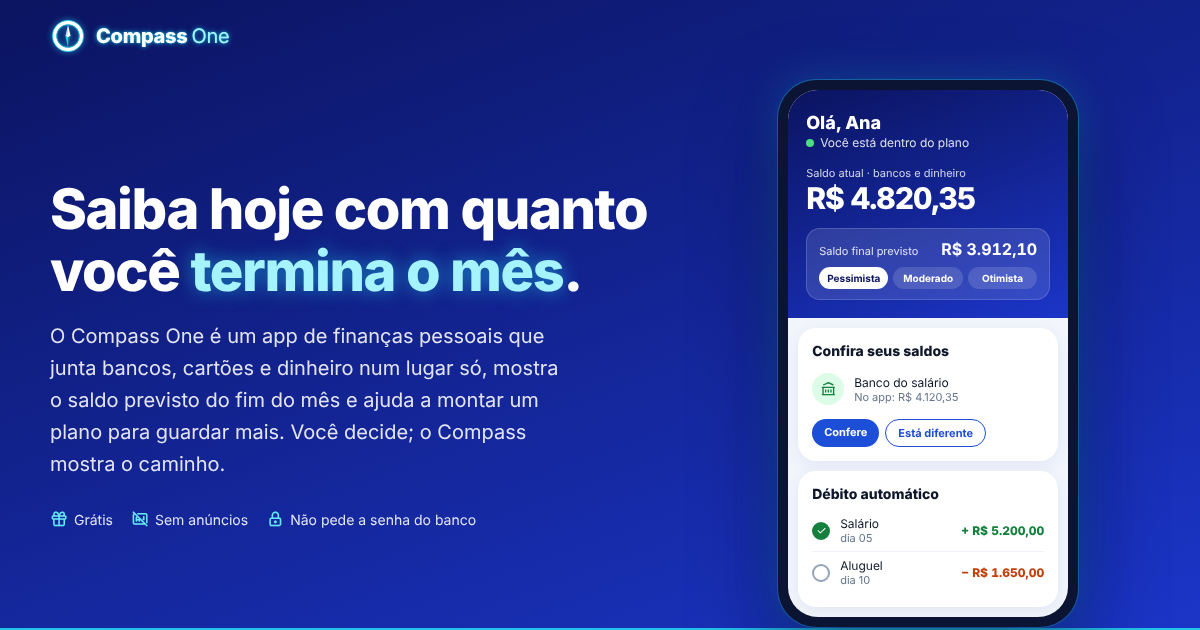
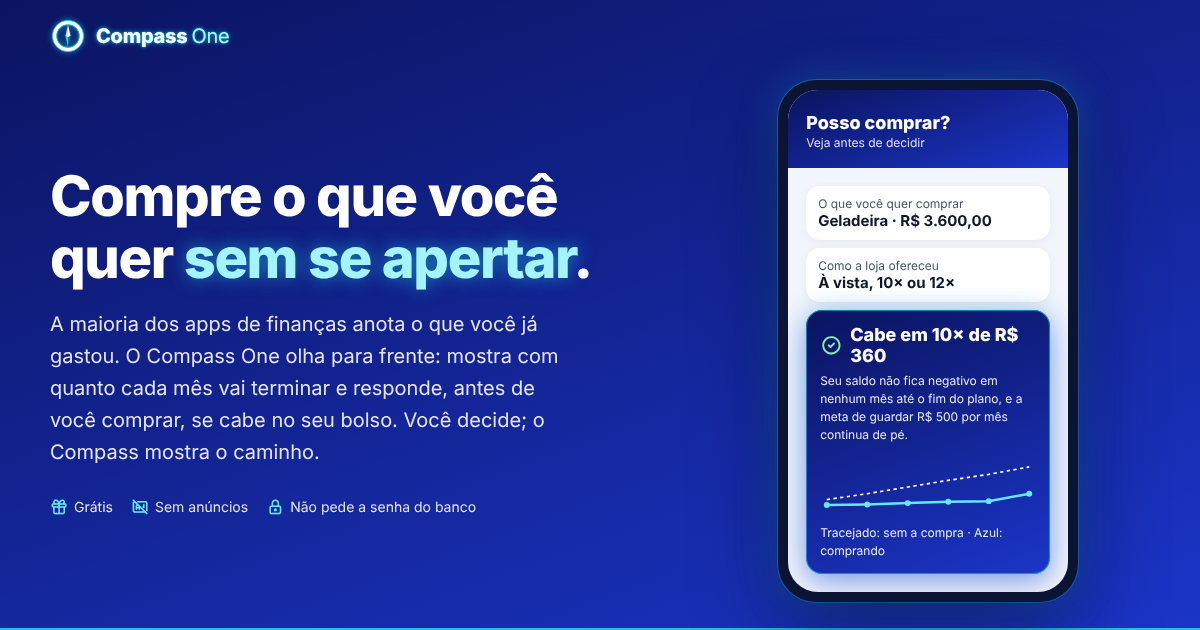
Apresentação: foco em planejamento, previsão e 'posso comprar?'
Topo com o simulador no celular, comparativo 'olham para trás × olha para
frente', funcionalidades na ordem Posso comprar?, Previsão, Planejamento,
Início, Radar, Lançar; título, descrição e prévia de link no mesmo tom.

Claude-Session: https://claude.ai/code/session_01Kn3FeVHsixTQpCq5MgH3Um

Changed region(s): [[0.6475, 0.1508, 0.925, 1.0], [0.0308, 0.2714, 0.555, 0.754], [0.0308, 0.7841, 0.4008, 0.8444]]

diff --git a/src/pages/LandingPage.tsx b/src/pages/LandingPage.tsx
@@ -71,6 +71,29 @@ const CSS = `
 .lp-bola { width: 18px; height: 18px; border-radius: 50%; border: 2px solid #94a3b8; flex-shrink: 0; }
 .lp-bola.ok { background: #15803d; border-color: #15803d; color: #fff; font-size: 11px; display: flex; align-items: center; justify-content: center; }
 
+/* simulador no celular do topo */
+.lp-sim { padding: 18px; }
+.lp-sim-campo { background: #fff; border-radius: 14px; padding: 10px 12px; font-size: 12px; color: #475569; margin-bottom: 8px; box-shadow: 0 2px 8px rgba(30,58,138,.06); }
+.lp-sim-campo b { display: block; font-size: 15px; color: #0f172a; }
+.lp-veredito { border-radius: 16px; padding: 14px; background: var(--cx-azul); color: #fff; box-shadow: var(--cx-brilho); }
+.lp-veredito-t { display: flex; align-items: center; gap: 8px; font-size: 18px; font-weight: 800; }
+.lp-veredito-t i { color: #86efac; font-size: 22px; }
+.lp-veredito p { margin: 6px 0 0; font-size: 12px; line-height: 1.5; color: rgba(255,255,255,.9); }
+.lp-linha-saldo { margin-top: 10px; }
+
+/* comparativo */
+.lp-comp { display: grid; grid-template-columns: 1fr; gap: 16px; }
+.lp-comp-col { border-radius: 22px; padding: 26px; }
+.lp-comp-col h3 { margin: 0 0 16px; font-size: 20px; }
+.lp-comp-col ul { list-style: none; padding: 0; margin: 0; display: grid; gap: 14px; }
+.lp-comp-col li { display: flex; gap: 10px; font-size: 15px; line-height: 1.5; }
+.lp-comp-col li i { font-size: 20px; flex-shrink: 0; }
+.lp-comp-outros { background: #f1f5f9; color: #334155; }
+.lp-comp-outros i { color: #64748b; }
+.lp-comp-nos { background: var(--cx-azul); color: #fff; box-shadow: var(--cx-brilho); }
+.lp-comp-nos i { color: #86efac; }
+.lp-comp-rot { font-size: 12px; font-weight: 800; letter-spacing: .6px; text-transform: uppercase; margin-bottom: 6px; opacity: .8; }
+
 /* como começa */
 .lp-passos { display: grid; grid-template-columns: 1fr; gap: 16px; counter-reset: passo; padding: 0; margin: 0; list-style: none; }
 .lp-passo { border: 1.5px solid #dbe4f3; border-radius: 18px; padding: 22px; background: #fff; }
@@ -153,7 +176,7 @@ const CSS = `
 
 @media (min-width: 640px) {
   .lp-ctas { flex-direction: row; }
-  .lp-passos, .lp-extras { grid-template-columns: repeat(2, 1fr); }
+  .lp-passos, .lp-extras, .lp-comp { grid-template-columns: repeat(2, 1fr); }
   .lp-planos { grid-template-columns: repeat(2, 1fr); }
 }
 @media (min-width: 900px) {
@@ -209,6 +232,59 @@ function CelularInicio() {
             <span className="v" style={{ color: '#c2410c' }}>− R$ 1.650,00</span>
           </div>
         </div>
+      </div>
+    </div>
+  )
+}
+
+function CelularSimulador() {
+  // Saldo dos próximos meses, sem e com a compra (fictício): nunca fica negativo.
+  const sem = [3900, 4300, 4750, 5200, 5600, 6100]
+  const com = [3540, 3580, 3670, 3760, 3800, 4300]
+  const x = (i: number) => 8 + i * 48
+  const y = (v: number) => 70 - ((v - 3000) / 3400) * 60
+  const linha = (vs: number[]) => vs.map((v, i) => `${i ? 'L' : 'M'}${x(i)},${y(v).toFixed(1)}`).join(' ')
+  return (
+    <div className="lp-cel" role="img" aria-label="Exemplo do Posso comprar? no celular: uma geladeira de R$ 3.600 cabe em 10 vezes sem deixar o saldo negativo">
+      <div className="lp-tela">
+        <div className="lp-tela-topo">
+          <div className="lp-ola">Posso comprar?</div>
+          <div className="lp-status">Veja antes de decidir</div>
+        </div>
+        <div className="lp-sim">
+          <div className="lp-sim-campo">O que você quer comprar<b>Geladeira · R$ 3.600,00</b></div>
+          <div className="lp-sim-campo">Como a loja ofereceu<b>À vista, 10× ou 12×</b></div>
+          <div className="lp-veredito">
+            <div className="lp-veredito-t"><i className="ti ti-circle-check" />Cabe em 10× de R$ 360</div>
+            <p>Seu saldo não fica negativo em nenhum mês até o fim do plano, e a meta de guardar R$ 500 por mês continua de pé.</p>
+            <svg className="lp-linha-saldo" viewBox="0 0 256 76" width="100%" aria-hidden>
+              <path d={linha(sem)} fill="none" stroke="#fff" strokeWidth="2" strokeDasharray="4 4" />
+              <path d={linha(com)} fill="none" stroke="#67e8f9" strokeWidth="3" />
+              {com.map((v, i) => <circle key={i} cx={x(i)} cy={y(v)} r="3.5" fill="#67e8f9" />)}
+            </svg>
+            <p style={{ marginTop: 2 }}>Tracejado: sem a compra · Azul: comprando</p>
+          </div>
+        </div>
+      </div>
+    </div>
+  )
+}
+
+function QuadroPrevisao() {
+  const meses = ['out', 'nov', 'dez', 'jan', 'fev', 'mar']
+  const vals = [3912, 2650, -480, 1200, 2300, 3100]
+  return (
+    <div className="lp-quadro" role="img" aria-label="Exemplo da previsão: o saldo dos próximos meses, com dezembro ficando negativo e marcado em vermelho">
+      <div className="lp-quadro-t">Com quanto cada mês vai terminar</div>
+      <div className="lp-colunas" style={{ alignItems: 'flex-end' }}>
+        {vals.map((v, i) => (
+          <div key={i} style={{ height: `${Math.max(8, Math.abs(v) / 40)}%`, background: v < 0 ? '#fca5a5' : i === 0 ? '#67e8f9' : 'rgba(255,255,255,.85)' }} />
+        ))}
+      </div>
+      <div className="lp-meses">{meses.map(m => <span key={m}>{m}</span>)}</div>
+      <div className="lp-caixa" style={{ marginTop: 14 }}>
+        <div style={{ fontSize: 13, fontWeight: 700 }}>Dezembro termina em − R$ 480,00</div>
+        <div style={{ fontSize: 12, marginTop: 4, color: 'rgba(255,255,255,.88)' }}>Você vê hoje, com dois meses para mudar o caminho.</div>
       </div>
     </div>
   )
@@ -280,60 +356,69 @@ function QuadroSimulador() {
 
 const FUNCIONALIDADES = [
   {
-    tag: 'Início', icone: 'ti-home',
-    titulo: 'Tudo o que pede sua atenção, logo na primeira tela',
-    texto: 'Ao abrir o app você vê quanto tem hoje nos bancos e no dinheiro e com quanto deve terminar o mês. O resto vem em ordem: o que conferir e o que pagar.',
+    tag: 'Posso comprar?', icone: 'ti-shopping-cart',
+    titulo: 'Antes de comprar, saiba se cabe',
+    texto: 'Digite o valor e as opções que a loja ofereceu. O Compass coloca a compra dentro do seu plano, mês a mês, e mostra a forma mais barata entre as que não apertam o seu bolso.',
     itens: [
-      'Confira seus saldos: compare com o app do banco em um toque',
-      'Salário e débito automático se marcam sozinhos no dia, e você só confere',
-      'Contas da semana (PIX, boleto ou dinheiro) com o botão Pagar',
-      'Resumo do mês: previsto e realizado lado a lado, com a sua meta de economia',
+      'Compara à vista, parcelado e com juros, lado a lado',
+      'Mostra o juro embutido a partir da parcela, sem precisar saber a taxa',
+      'Diz se a sua meta de economia continua de pé com a compra',
+      'Aponta o melhor dia para comprar no cartão e quitar uma dívida à vista',
     ],
-    quadro: <QuadroResumoInicio />,
+    quadro: <QuadroSimulador />,
   },
   {
-    tag: 'Lançar', icone: 'ti-plus',
-    titulo: 'Anote um gasto em segundos',
-    texto: 'Toque na categoria, escolha débito ou crédito e digite o valor. O app já mostra quanto ainda resta para aquela categoria no mês.',
+    tag: 'Previsão', icone: 'ti-telescope',
+    titulo: 'Veja o aperto meses antes de ele chegar',
+    texto: 'Com o que você planejou e o que já está lançado, o Compass calcula com quanto cada mês vai terminar até o fim do plano. Se algum mês ficar no vermelho, você descobre agora, com tempo de mudar.',
     itens: [
-      'Compra parcelada no cartão, à vista ou em até 24×',
-      'O app sabe em qual fatura a compra cai, pelo dia de fechamento',
-      'Banco, cartão e dinheiro no mesmo lugar, com transferência entre contas',
+      'Saldo previsto do fim do mês, com o cálculo aberto linha a linha',
+      'Três cenários: pessimista, moderado ou otimista',
+      'Parcelas e contas que já vêm pela frente entram na conta',
     ],
-    quadro: <QuadroLancar />,
+    quadro: <QuadroPrevisao />,
+  },
+  {
+    tag: 'Planejamento', icone: 'ti-calendar-stats',
+    titulo: 'Um plano para o ano inteiro, no seu ritmo',
+    texto: 'Defina quanto quer gastar em cada categoria e quanto quer guardar por mês. O Compass mostra com quanto o ano termina se o plano se cumprir.',
+    itens: [
+      'Meta de economia mês a mês, com o rumo do ano',
+      'Contas que se repetem todo mês ou em parcelas (IPVA, seguro, matrícula)',
+      'Revisão anual: o mesmo mês do ano passado sugere o plano do próximo',
+    ],
+    quadro: <QuadroPlano />,
+  },
+  {
+    tag: 'Início', icone: 'ti-home',
+    titulo: 'Abriu o app, já sabe como o mês vai terminar',
+    texto: 'A primeira tela mostra quanto você tem hoje e com quanto deve terminar o mês. Depois, o que conferir e o que pagar.',
+    itens: [
+      'Salário e débito automático se marcam sozinhos no dia, e você só confere',
+      'Confira seus saldos com o app do banco em um toque',
+      'Resumo do mês: previsto e realizado, com a sua meta de economia',
+    ],
+    quadro: <CelularInicio />,
   },
   {
     tag: 'Radar financeiro', icone: 'ti-radar-2',
-    titulo: 'O mês em tempo real, grupo por grupo',
-    texto: 'O Radar mostra o que já aconteceu no mês, contra o que você planejou: quanto ainda resta em cada grupo e onde o gasto passou do plano.',
+    titulo: 'Quanto ainda dá para gastar, grupo por grupo',
+    texto: 'O Radar compara o mês com o plano em tempo real: quanto resta em cada grupo e onde o gasto passou, para você decidir enquanto ainda dá tempo.',
     itens: [
-      'Receitas e despesas do mês, com o saldo de hoje',
       'Cada grupo diz "resta", "passou" ou "pago", sem precisar fazer conta',
       'Ajuste o plano dos próximos meses direto da categoria',
     ],
     quadro: <QuadroRadar />,
   },
   {
-    tag: 'Planejamento', icone: 'ti-calendar-stats',
-    titulo: 'Um plano para o ano inteiro, no seu ritmo',
-    texto: 'Defina quanto quer gastar em cada categoria e quanto quer guardar por mês. O app mostra com quanto cada mês termina se o plano se cumprir.',
+    tag: 'Lançar', icone: 'ti-plus',
+    titulo: 'Anotar é rápido, porque o importante vem depois',
+    texto: 'Toque na categoria, escolha débito ou crédito e digite o valor. A compra já entra na previsão dos próximos meses.',
     itens: [
-      'Meta de economia mês a mês, com o rumo do ano',
-      'Contas que se repetem todo mês ou em parcelas (IPVA, seguro, matrícula)',
-      'Copiar o ano com atualização de valores e revisão anual, mês contra mês',
+      'Parcelado no cartão em até 24×, na fatura certa pelo dia de fechamento',
+      'Banco, cartão e dinheiro no mesmo lugar',
     ],
-    quadro: <QuadroPlano />,
-  },
-  {
-    tag: 'Simulador', icone: 'ti-shopping-cart',
-    titulo: 'Posso comprar? Veja antes de decidir',
-    texto: 'Digite o valor e as opções que a loja ofereceu. O simulador compara as formas de pagamento e mostra a mais barata entre as que cabem no seu fluxo até o fim do plano.',
-    itens: [
-      'Juro embutido calculado a partir da parcela, sem precisar saber a taxa',
-      'Mostra se a sua meta de economia continua de pé com a compra',
-      'Quitar uma dívida à vista: o melhor mês e quanto você economiza',
-    ],
-    quadro: <QuadroSimulador />,
+    quadro: <QuadroLancar />,
   },
 ]
 
@@ -364,11 +449,11 @@ export default function LandingPage() {
         </nav>
         <div className="lp-hero">
           <div className="lp-hero-txt">
-            <h1>Saiba hoje com quanto você <em>termina o mês</em>.</h1>
+            <h1>Compre o que você quer <em>sem se apertar</em>.</h1>
             <p>
-              O Compass One é um app de finanças pessoais que junta bancos, cartões e dinheiro
-              num lugar só, mostra o saldo previsto do fim do mês e ajuda a montar um plano para
-              guardar mais. Você decide; o Compass mostra o caminho.
+              A maioria dos apps de finanças anota o que você já gastou. O Compass One olha para
+              frente: mostra com quanto cada mês vai terminar e responde, antes de você comprar,
+              se cabe no seu bolso. Você decide; o Compass mostra o caminho.
             </p>
             <div className="lp-ctas">
               <Link to="/cadastro" className="lp-btn lp-btn-branco">Começar grátis <i className="ti ti-arrow-right" /></Link>
@@ -380,11 +465,42 @@ export default function LandingPage() {
               <li><i className="ti ti-lock" />Não pede a senha do banco</li>
             </ul>
           </div>
-          <CelularInicio />
+          <CelularSimulador />
         </div>
       </header>
 
       <main>
+        <section className="lp-sec" aria-labelledby="diferenca">
+          <div className="lp-in">
+            <div className="lp-centro">
+              <h2 className="lp-h2" id="diferenca">Anotar gastos conta o passado. Planejar muda o futuro.</h2>
+              <p className="lp-sub">Saber onde o dinheiro foi é o começo. O Compass One foi feito para a pergunta que vem depois: e agora, o que eu faço?</p>
+            </div>
+            <div className="lp-comp">
+              <div className="lp-comp-col lp-comp-outros">
+                <div className="lp-comp-rot">Apps de anotação</div>
+                <h3>Olham para trás</h3>
+                <ul>
+                  <li><i className="ti ti-history" />Mostram quanto você já gastou</li>
+                  <li><i className="ti ti-list" />Uma lista de receitas e despesas</li>
+                  <li><i className="ti ti-alert-triangle" />O aperto aparece quando o mês já acabou</li>
+                  <li><i className="ti ti-help" />Comprar ou esperar? A conta fica com você</li>
+                </ul>
+              </div>
+              <div className="lp-comp-col lp-comp-nos">
+                <div className="lp-comp-rot">Compass One</div>
+                <h3>Olha para frente</h3>
+                <ul>
+                  <li><i className="ti ti-circle-check" />Mostra com quanto cada mês vai terminar</li>
+                  <li><i className="ti ti-circle-check" />Um plano do ano, com a sua meta de economia</li>
+                  <li><i className="ti ti-circle-check" />O mês no vermelho aparece meses antes, com tempo de mudar</li>
+                  <li><i className="ti ti-circle-check" />Responde se a compra cabe, antes de você comprar</li>
+                </ul>
+              </div>
+            </div>
+          </div>
+        </section>
+
         <section className="lp-sec" style={{ background: '#f8faff' }} aria-labelledby="como-comeca">
           <div className="lp-in">
             <div className="lp-centro">
@@ -402,8 +518,8 @@ export default function LandingPage() {
         <section className="lp-sec" aria-labelledby="funcionalidades">
           <div className="lp-in">
             <div className="lp-centro">
-              <h2 className="lp-h2" id="funcionalidades">O que o Compass One faz por você</h2>
-              <p className="lp-sub">Controle de gastos, orçamento e planejamento financeiro no mesmo app.</p>
+              <h2 className="lp-h2" id="funcionalidades">Planejamento, previsão e decisão no mesmo app</h2>
+              <p className="lp-sub">Do "posso comprar?" ao plano do ano, cada tela ajuda a decidir o próximo passo.</p>
             </div>
             {FUNCIONALIDADES.map((f, i) => (
               <article key={f.tag} className={`lp-func${i % 2 ? ' inv' : ''}`}>
@@ -483,8 +599,8 @@ export default function LandingPage() {
 
         <section className="lp-sec lp-fim" aria-labelledby="comecar">
           <div className="lp-in lp-centro">
-            <h2 className="lp-h2" id="comecar">Sua vida financeira com rumo</h2>
-            <p className="lp-sub">Crie sua conta grátis e veja hoje com quanto o seu mês termina.</p>
+            <h2 className="lp-h2" id="comecar">Decida hoje como será o seu mês que vem</h2>
+            <p className="lp-sub">Crie sua conta grátis e saiba, antes de comprar, se cabe no seu bolso.</p>
             <Link to="/cadastro" className="lp-btn lp-btn-branco">Começar grátis <i className="ti ti-arrow-right" /></Link>
           </div>
         </section>
@@ -498,41 +614,6 @@ export default function LandingPage() {
           <a href="mailto:suporte@compassone.app">Suporte</a>
         </nav>
       </footer>
-    </div>
-  )
-}
-
-/** Na seção da Início o celular já está no topo; aqui vai o Resumo do mês. */
-function QuadroResumoInicio() {
-  const barras: [string, number, number, string, string][] = [
-    ['Receitas', 100, 96, 'R$ 6.200', 'R$ 5.950'],
-    ['Despesas', 78, 64, 'R$ 4.800', 'R$ 3.940'],
-  ]
-  return (
-    <div className="lp-quadro" role="img" aria-label="Exemplo do Resumo do mês: previsto e realizado de receitas e despesas">
-      <div className="lp-quadro-t">Resumo do mês · outubro começou com R$ 2.510,00</div>
-      {barras.map(([nome, prev, real, vp, vr]) => (
-        <div key={nome} style={{ marginBottom: 14 }}>
-          <div style={{ fontSize: 13, fontWeight: 700, marginBottom: 6 }}>{nome}</div>
-          <div style={{ display: 'grid', gridTemplateColumns: '64px 1fr 76px', gap: 8, alignItems: 'center', fontSize: 11, marginBottom: 5 }}>
-            <span style={{ color: 'rgba(255,255,255,.8)' }}>Previsto</span>
-            <span style={{ height: 10, borderRadius: 99, border: '1.5px solid #fff', width: `${prev}%` }} />
-            <b style={{ textAlign: 'right' }}>{vp}</b>
-          </div>
-          <div style={{ display: 'grid', gridTemplateColumns: '64px 1fr 76px', gap: 8, alignItems: 'center', fontSize: 11 }}>
-            <span style={{ color: 'rgba(255,255,255,.8)' }}>Realizado</span>
-            <span style={{ height: 10, borderRadius: 99, background: 'var(--cx-trilho)', width: `${prev}%`, overflow: 'hidden' }}>
-              <span style={{ display: 'block', height: '100%', width: `${(real / prev) * 100}%`, background: 'var(--cx-barra)' }} />
-            </span>
-            <b style={{ textAlign: 'right' }}>{vr}</b>
-          </div>
-        </div>
-      ))}
-      <div className="lp-caixa" style={{ marginTop: 4 }}>
-        <div className="lp-caixa-l">Meta de economia do mês <b>R$ 800,00</b></div>
-        <div style={{ fontSize: 12, marginTop: 6 }}>Você já guardou R$ 610,00 da meta</div>
-        <div className="lp-trilho" style={{ marginTop: 6, background: '#fff' }}><span style={{ width: '76%' }} /></div>
-      </div>
     </div>
   )
 }

diff --git a/index.html b/index.html
@@ -3,8 +3,8 @@
   <head>
     <meta charset="UTF-8" />
     <meta name="viewport" content="width=device-width, initial-scale=1.0" />
-    <title>Compass One · App de finanças pessoais e planejamento financeiro</title>
-    <meta name="description" content="Controle de gastos, orçamento e planejamento financeiro num app só. Veja hoje com quanto você termina o mês, anote gastos em segundos e monte um plano para guardar mais. Grátis, sem anúncios e sem pedir a senha do banco." />
+    <title>Compass One · Planejamento financeiro: saiba se cabe antes de comprar</title>
+    <meta name="description" content="App de planejamento financeiro que olha para frente: veja com quanto cada mês vai terminar e saiba, antes de comprar, se cabe no seu bolso. Orçamento, meta de economia e simulador de compras. Grátis e sem anúncios." />
     <link rel="canonical" href="https://www.compass-one.com.br/" />
     <meta name="robots" content="index, follow, max-image-preview:large" />
 
@@ -12,15 +12,15 @@
     <meta property="og:locale" content="pt_BR" />
     <meta property="og:site_name" content="Compass One" />
     <meta property="og:url" content="https://www.compass-one.com.br/" />
-    <meta property="og:title" content="Compass One · Saiba hoje com quanto você termina o mês" />
-    <meta property="og:description" content="App de finanças pessoais: controle de gastos, orçamento e planejamento financeiro. Grátis, sem anúncios e sem pedir a senha do banco." />
+    <meta property="og:title" content="Compass One · Compre o que você quer sem se apertar" />
+    <meta property="og:description" content="Os outros apps anotam o que você já gastou. O Compass One mostra com quanto cada mês vai terminar e se a compra cabe, antes de comprar. Grátis." />
     <meta property="og:image" content="https://www.compass-one.com.br/og-imagem.png" />
     <meta property="og:image:width" content="1200" />
     <meta property="og:image:height" content="630" />
-    <meta property="og:image:alt" content="Compass One, app de finanças pessoais, com a tela Início no celular" />
+    <meta property="og:image:alt" content="Compass One, app de finanças pessoais, com o simulador Posso comprar? no celular" />
     <meta name="twitter:card" content="summary_large_image" />
-    <meta name="twitter:title" content="Compass One · Saiba hoje com quanto você termina o mês" />
-    <meta name="twitter:description" content="App de finanças pessoais: controle de gastos, orçamento e planejamento financeiro. Grátis e sem anúncios." />
+    <meta name="twitter:title" content="Compass One · Compre o que você quer sem se apertar" />
+    <meta name="twitter:description" content="Veja com quanto cada mês vai terminar e saiba se a compra cabe antes de comprar. Grátis." />
     <meta name="twitter:image" content="https://www.compass-one.com.br/og-imagem.png" />
 
     <link rel="icon" type="image/svg+xml" href="/icone.svg?v=3" />
@@ -58,7 +58,7 @@
             "operatingSystem": "Android, iOS, Windows, macOS",
             "browserRequirements": "Requer JavaScript",
             "inLanguage": "pt-BR",
-            "description": "App de finanças pessoais com controle de gastos, orçamento mensal, planejamento financeiro anual, meta de economia e simulador de compras.",
+            "description": "App de planejamento financeiro pessoal: previsão do saldo de cada mês, simulador de compras (posso comprar?), orçamento, meta de economia e controle de gastos.",
             "image": "https://www.compass-one.com.br/og-imagem.png",
             "offers": { "@type": "Offer", "price": "0", "priceCurrency": "BRL" },
             "publisher": { "@id": "https://www.compass-one.com.br/#organizacao" }

diff --git a/src/utils/perguntasFrequentes.ts b/src/utils/perguntasFrequentes.ts
@@ -9,6 +9,14 @@ export const PERGUNTAS_FREQUENTES: { pergunta: string; resposta: string }[] = [
     resposta: 'Sim. O plano Grátis tem todas as funcionalidades liberadas, sem limite de uso, sem anúncios e sem pedir cartão de crédito.',
   },
   {
+    pergunta: 'Qual a diferença para um app de anotar gastos?',
+    resposta: 'Anotar mostra o que já aconteceu. O Compass One usa o seu plano e o que já está lançado, como parcelas e contas fixas, para mostrar com quanto cada mês vai terminar e responder, antes de você comprar, se a compra cabe sem apertar o seu bolso.',
+  },
+  {
+    pergunta: 'Como o Compass One sabe se uma compra cabe no meu bolso?',
+    resposta: 'O simulador coloca a compra dentro do seu plano, mês a mês, até o fim do plano. Se nenhum mês fica negativo, ela cabe. Ele compara à vista e parcelado, mostra o juro embutido e diz se a sua meta de economia continua de pé.',
+  },
+  {
     pergunta: 'Preciso informar a senha do meu banco?',
     resposta: 'Não. O Compass One não se conecta ao seu banco. Você informa os saldos e anota os gastos, e o app confere tudo com você.',
   },
